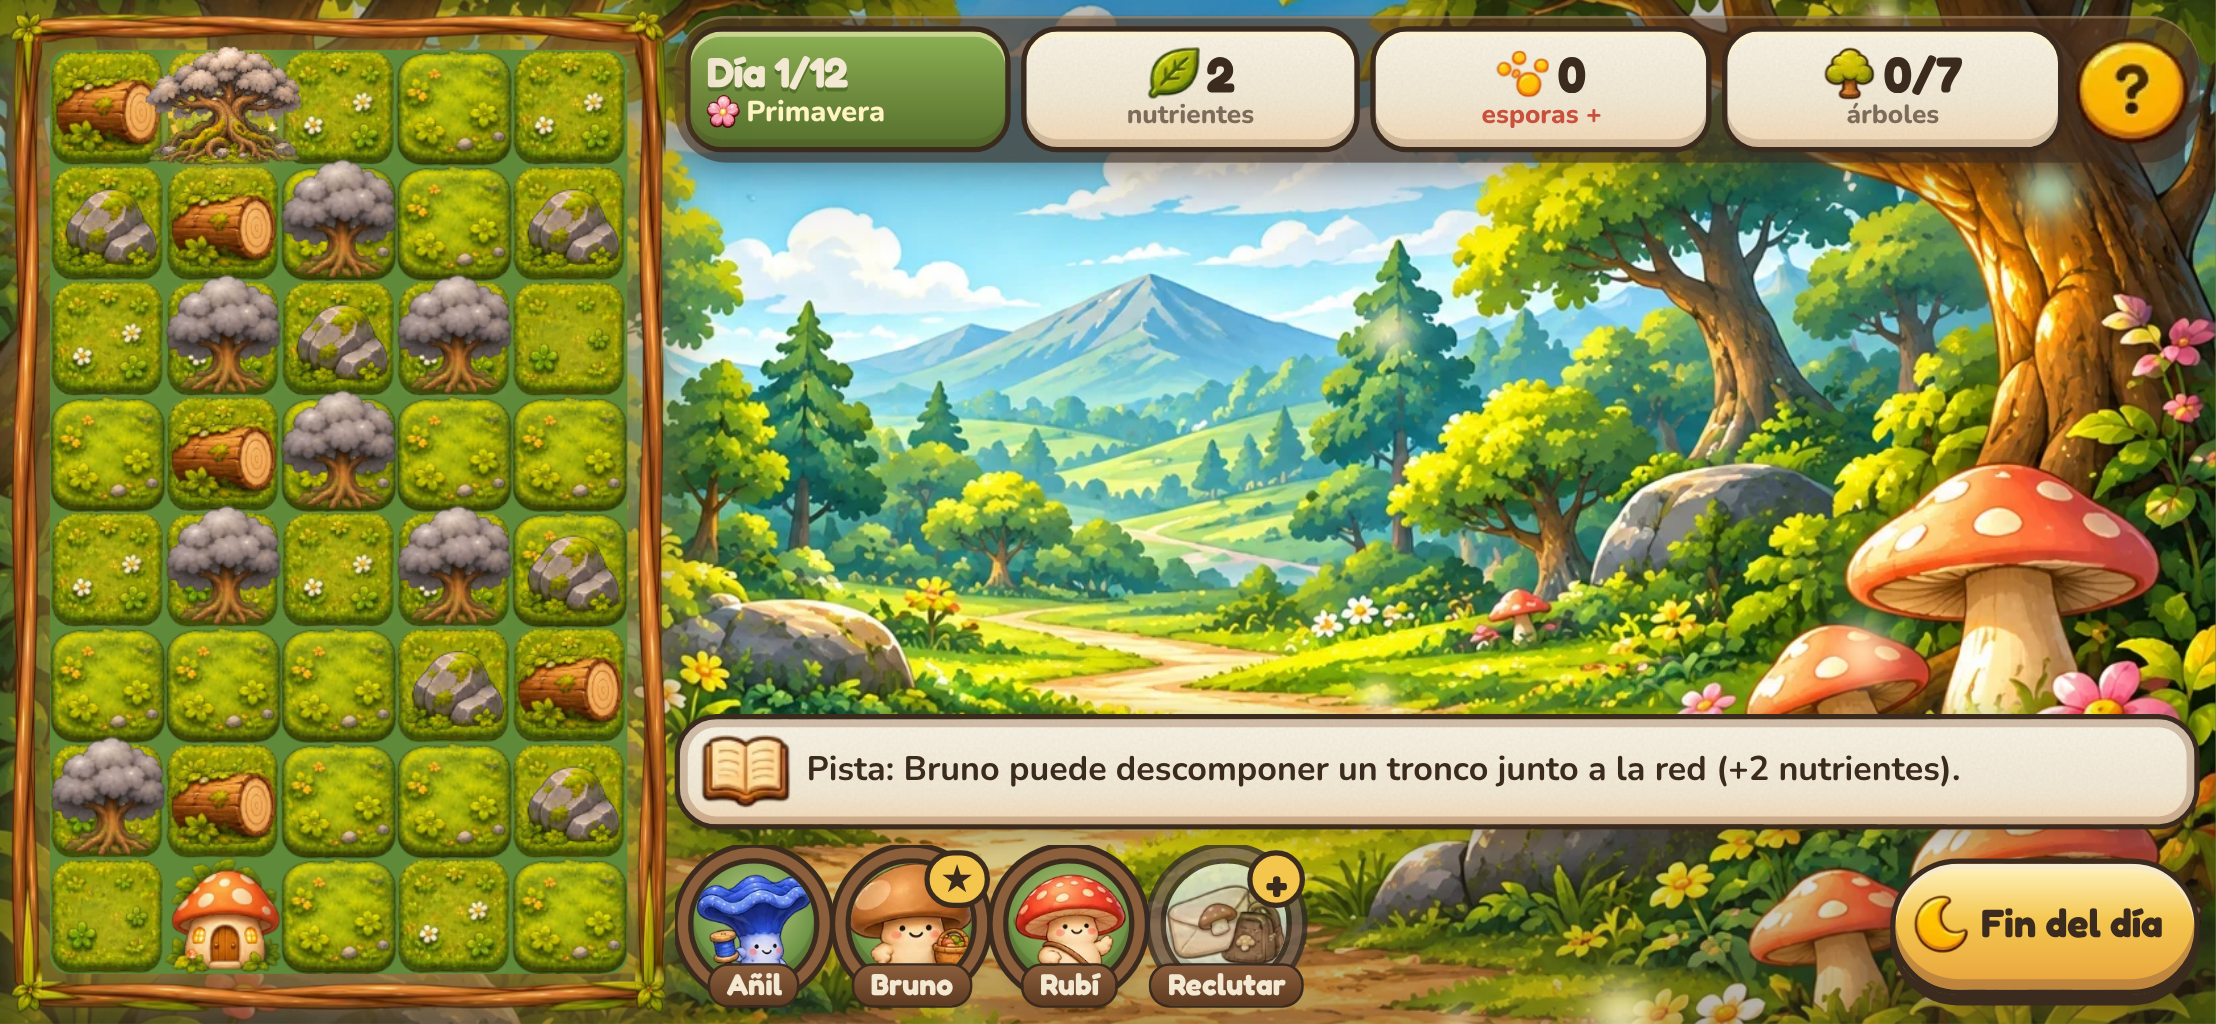
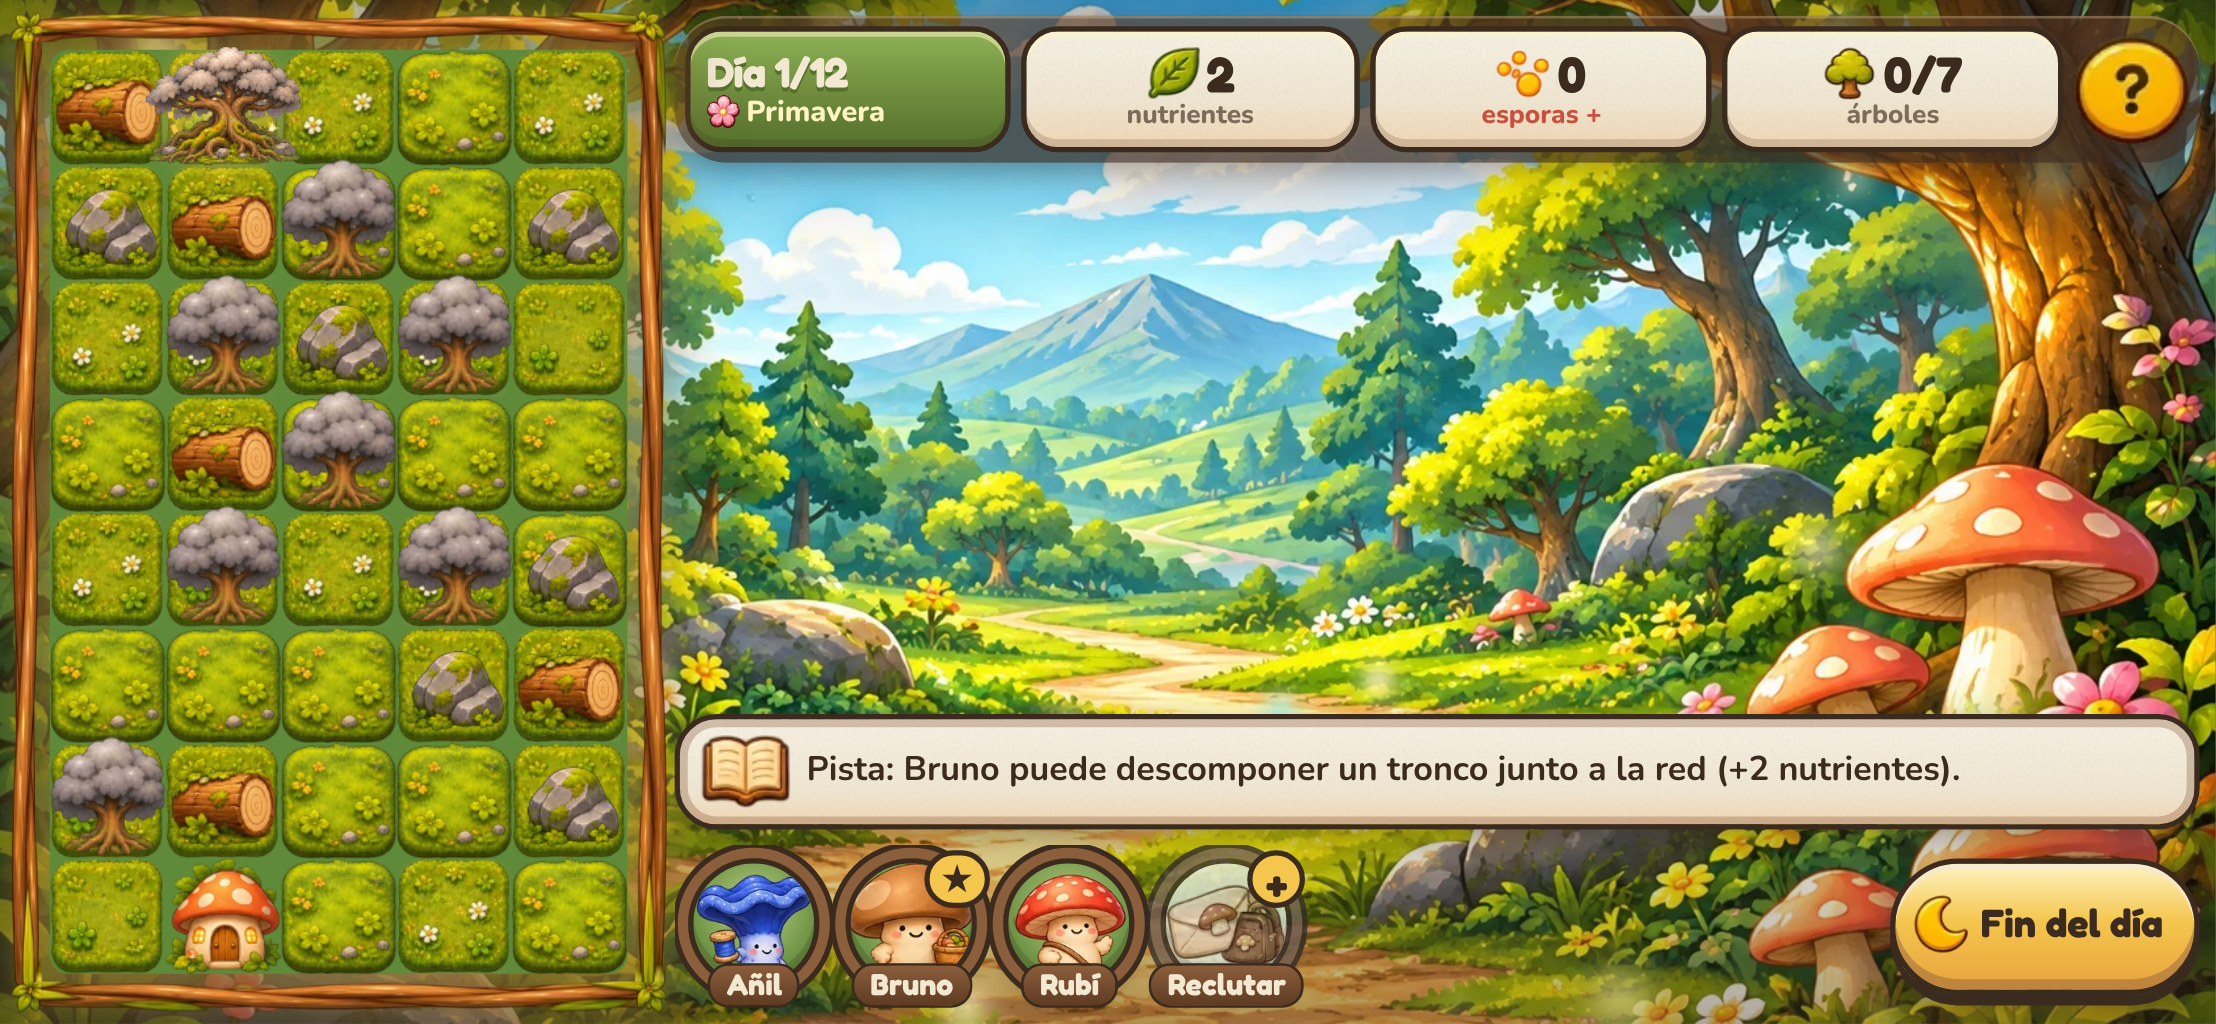
fix: URLs absolutas en las variables --art-* (en producción no cargaban las piezas de la interfaz)
Una url() relativa dentro de una variable CSS se resuelve contra la hoja
de estilos que la usa (assets/index-*.css del build), no contra la página.
En desarrollo el CSS va en línea y funcionaba; en Vercel faltaban fondo,
íconos, ayuda, luna, marco y reclutar.

Claude-Session: https://claude.ai/code/session_017xKxwTBbY17eFiTjGDxCPQ

diff --git a/tests/smoke/board.spec.ts b/tests/smoke/board.spec.ts
@@ -285,6 +285,9 @@ test('estilo cozy: bosque de fondo, pastillas, medallones, luna pintada, marco d
   // Piezas pintadas (010–011) como fondos CSS.
   const bg = (sel: string, prop = 'background-image') => page.locator(sel).first().evaluate((n, p) => getComputedStyle(n).getPropertyValue(p), prop);
   expect(await bg('.chip--nutrients .chip__icon')).toContain('ui/icons/nutrients.webp');
+  // Las variables --art-* llevan URL absoluta: una relativa se resuelve contra el CSS del build y en producción no carga.
+  const frameVar = await page.evaluate(() => getComputedStyle(document.documentElement).getPropertyValue('--art-frame'));
+  expect(frameVar).toMatch(/url\("https?:\/\//);
   expect(await bg('body')).toMatch(/backgrounds\/menu(-landscape)?\.webp/);
   await expect(page.locator('.dock__item .card__medal').first()).toBeVisible();
   if (info.project.name !== 'safari-390x664') await page.screenshot({ path: `docs/screenshots/011-${info.project.name}.png` });

diff --git a/src/theme.ts b/src/theme.ts
@@ -148,5 +148,7 @@ export function applyTheme(root: HTMLElement = document.documentElement): void {
   for (const [k, v] of Object.entries(color)) root.style.setProperty(`--${k}`, v);
   root.style.setProperty('--font-display', font.display);
   root.style.setProperty('--font-body', font.body);
-  for (const [k, v] of Object.entries(UI_ART)) root.style.setProperty(`--art-${k}`, `url("${assetUrl(v)}")`);
+  // URL absoluta: una url() relativa dentro de una variable CSS se resuelve contra la hoja de estilos
+  // que la usa (en producción, `assets/index-*.css`), no contra la página, y la pieza no carga.
+  for (const [k, v] of Object.entries(UI_ART)) root.style.setProperty(`--art-${k}`, `url("${new URL(assetUrl(v), document.baseURI).href}")`);
 }
